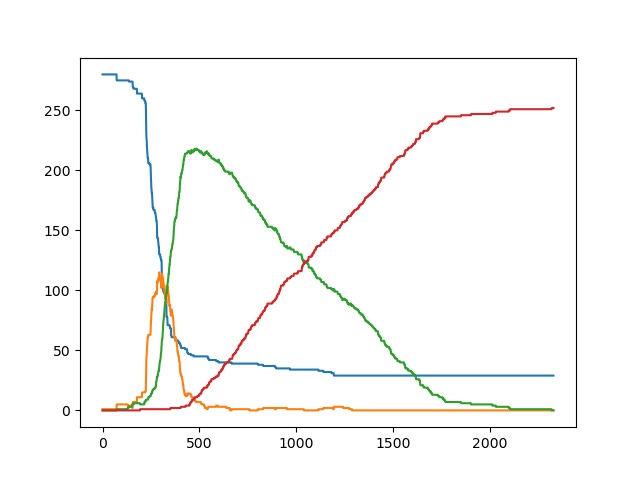
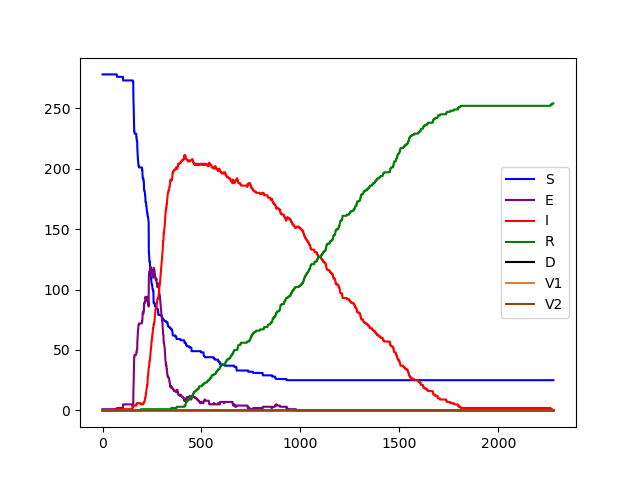
Added vaccination

diff --git a/household_degdist_vaccination.py b/household_degdist_vaccination.py
@@ -36,7 +36,7 @@ def split_list(l: list[str]) -> tuple[list[str], list[str]]:
     return deepcopy(l[:l_len // 2]), deepcopy(l[l_len // 2:])
 
 
-def transmit_hh(pop: Population, beta: dict, E_dist, I_dist) -> None:
+def transmit_hh(pop: Population, beta: dict, E_dist, I_dist, ve) -> None:
     """
     Transmits within the household
 
@@ -81,7 +81,7 @@ def transmit_hh(pop: Population, beta: dict, E_dist, I_dist) -> None:
     return deepcopy(pop.G)
 
 
-def transmit_daytime(pop: Population, beta: dict, p_mask: float, E_dist, I_dist) -> None:
+def transmit_daytime(pop: Population, beta: dict, p_mask: float, E_dist, I_dist, ve) -> None:
     """
     Transmits during each hour of the workday
     Assume a 10 hour day. Probability of a node having a contact each hour is num_cc_nonhh/10.
@@ -114,20 +114,22 @@ def transmit_daytime(pop: Population, beta: dict, p_mask: float, E_dist, I_dist)
 
     # Transmit
     for u, v, d in pop.edges.data():
-        if not d['household'] and (u in pop.node_ids_I or v in pop.node_ids_I) and bernoulli(beta[d['protection']]):
-            t = (u, v,E_dist.rvs(), I_dist.rvs())
-            pop.transmit([t])
+        if not d['household'] and \
+                (u in pop.node_ids_I or v in pop.node_ids_I):
 
-    # pop.transmit(
-    #     [
-    #         # Tuple format: (node 1, node2, num hrs Exposed, num hrs infectious)
-    #         (u, v, E_dist.rvs(), I_dist.rvs())
-    #         # Get edges
-    #         for u, v, d in pop.edges.data()
-    #         # If they aren't in the same household and coin flip wearing protection
-    #         if not d['household'] and bernoulli(beta[d['protection']])
-    #     ]
-    # )
+            # If either node is vaccinated:
+            if u in pop.node_ids_V1 or v in pop.node_ids_V1:
+                if bernoulli(beta[d['protection']]) and bernoulli(1-ve["V1"]):
+                    t = (u, v, E_dist.rvs(), I_dist.rvs())
+                    pop.transmit([t])
+            elif u in pop.node_ids_V2 or v in pop.node_ids_V2:
+                if bernoulli(beta[d['protection']]) and bernoulli(1-ve["V2"]):
+                    t = (u, v, E_dist.rvs(), I_dist.rvs())
+                    pop.transmit([t])
+            elif bernoulli(beta[d['protection']]):
+                t = (u, v, E_dist.rvs(), I_dist.rvs())
+                pop.transmit([t])
+
 
     pop.add_history()
     pop.decrement()
@@ -135,7 +137,7 @@ def transmit_daytime(pop: Population, beta: dict, p_mask: float, E_dist, I_dist)
 
     return deepcopy(pop.G)
 
-def distribute_vax(pop: Population, n_daily: int):
+def distribute_vax(pop: Population, n_daily: int, time_until_v2: int = 25 * 24):
     """
     Distributes n_daily doses of the vaccine to the population, by priority
     group
@@ -151,6 +153,83 @@ def distribute_vax(pop: Population, n_daily: int):
 
     """
 
+
+    n_remaining = n_daily
+    n_remaining_2 = n_daily
+
+    def invert_dict(d):
+        ret = dict()
+        for key, value in d.items():
+            if value in ret:
+                ret[value].append(key)
+            else:
+                ret[value] = [key]
+
+        return ret
+
+    # Invert the dict of priorities
+    v1_prior = pop.vaccine_priority
+    v1_prior = invert_dict(v1_prior)
+    del v1_prior[-1]
+
+
+
+    # V1
+    while n_remaining > 0:
+        # The node that we're vaccinating
+        try :
+            max_prior = max(v1_prior.keys())
+            if (len(v1_prior[max_prior]) == 0):
+                del v1_prior[max_prior]
+            max_prior = max(v1_prior.keys())
+        except ValueError:
+            break
+
+        random.shuffle(v1_prior[max_prior])
+        nid = v1_prior[max_prior].pop()
+
+        print("Node", nid, "got the first dose of vaccine")
+
+        # Set the node's status to V1
+        pop.V1(nid, time_until_v2)
+
+
+        n_remaining -= 1
+
+
+    # V2
+    v2_prior = pop.time_until_v2
+    v2_prior = invert_dict(v2_prior)
+    try:
+        v2_prior = v2_prior[0]
+        print(v2_prior)
+    except KeyError:
+        return deepcopy(pop.G)
+
+    print(n_remaining_2)
+    print(len(v2_prior))
+    while n_remaining_2 > 0 and len(v2_prior) > 0:
+        # The node that we're vaccinating
+
+        random.shuffle(v2_prior)
+        nid = v2_prior.pop()
+
+        print(nid)
+
+        print("Node", nid, "got the second dose of vaccine")
+
+        # Set the node's status to V1
+        pop.V2(nid)
+
+        n_remaining_2 -= 1
+
+    return deepcopy(pop.G)
+
+
+
+
+
+
 def household_mixing_w_degree_dist(
         n_hh: int = 1000,
         initial_sick: int = 1,
@@ -158,12 +237,15 @@ def household_mixing_w_degree_dist(
         beta: dict[bool, float] = {True: 0.01, False: 0.1},
         p_mask: float = 0.8,
         E_dist=randint(2 * 24, 4 * 24),
-        I_dist=randint(4 * 24, 57 * 24)
+        I_dist=randint(4 * 24, 57 * 24),
+        ve: dict[str, float] = {'V1': 0.75, 'V2': 0.95, False: 0}
 ) -> tuple:
     """
 
     Parameters
     ----------
+    ve: dict[str, float]
+        Vaccine efficacy
     n_hh: int
         Number of households
     initial_sick: int
@@ -183,6 +265,7 @@ def household_mixing_w_degree_dist(
     -------
 
     """
+
     pop = sim_pop(n_hh, lucid_data['wave4'])
 
     for _ in range(initial_sick):
@@ -195,22 +278,29 @@ def household_mixing_w_degree_dist(
 
     day = 0
 
+    # Randomly assing priority levels -1-2
+    for nid in pop.node_ids:
+        pop.set_vax_priority(nid, random.choice([-1, 0, 1, 2]))
+
     while (len(pop.node_ids_I) + len(pop.node_ids_E) > 0) and (n_days > 0):
 
         # Morning
         for hour in range(0, 8):
             print("Day", day, "Hour", hour)
-            anim_list.append(transmit_hh(pop, beta, E_dist, I_dist))
+            anim_list.append(transmit_hh(pop, beta, E_dist, I_dist, ve))
+
+        # Distribute vaccines
+        distribute_vax(pop, 10)
 
         # Workday
         for hour in range(8, 18):
             print("Day", day, "Hour", hour)
-            anim_list.append(transmit_daytime(pop, beta, p_mask, E_dist, I_dist))
+            anim_list.append(transmit_daytime(pop, beta, p_mask, E_dist, I_dist, ve))
 
         # Evening
         for hour in range(18, 24):
             print("Day", day, "Hour", hour)
-            anim_list.append(transmit_hh(pop, beta, E_dist, I_dist))
+            anim_list.append(transmit_hh(pop, beta, E_dist, I_dist, ve))
 
         day += 1
         n_days -= 1
@@ -221,17 +311,32 @@ def household_mixing_w_degree_dist(
 if __name__ == "__main__":
     pop, history, anim_list = household_mixing_w_degree_dist(100, initial_sick=1)
 
-    coldict = {'S': 'blue', 'E': 'purple', 'I': 'red', 'R': 'green'}
+
+    # Print stats
+    print("Susceptible: ", len(pop.node_ids_S), "of", len(pop.node_ids))
+    print("Infected: ", len(pop.node_ids_I), "of", len(pop.node_ids))
+    print("Recovered: ", len(pop.node_ids_R), "of", len(pop.node_ids))
+    print("Deaths: ", len(pop.node_ids_D), "of", len(pop.node_ids))
+    print("Vaccinated, dose 1: ", len(pop.node_ids_V1), "of", len(pop.node_ids))
+    print("Vaccinated, dose 2: ", len(pop.node_ids_V2), "of", len(pop.node_ids))
+    # print("Breakthrough cases: ", len(pop.node_ids_V2 in pop.node_ids_R), "of", len(pop.node_ids_V2))
+
+
+
+    coldict = {'S': 'blue', 'E': 'purple', 'I': 'red', 'R': 'green', 'D': 'black', 'V1': 'peru', 'V2': 'saddlebrown'}
     edgedict = {True: '-', False: '--'}
 
-    plt.plot((history == 'S').sum(axis=0))
-    plt.plot((history == 'E').sum(axis=0))
-    plt.plot((history == 'I').sum(axis=0))
-    plt.plot((history == 'R').sum(axis=0))
-
+    plt.plot((history == 'S').sum(axis=0), color=coldict['S'], label='S')
+    plt.plot((history == 'E').sum(axis=0), color=coldict['E'], label='E')
+    plt.plot((history == 'I').sum(axis=0), color=coldict['I'], label='I')
+    plt.plot((history == 'R').sum(axis=0), color=coldict['R'], label='R')
+    plt.plot((history == 'D').sum(axis=0), color=coldict['D'], label='D')
+    plt.plot((history == 'V1').sum(axis=0), color=coldict['V1'], label='V1')
+    plt.plot((history == 'V2').sum(axis=0), color=coldict['V2'], label='V2')
+    plt.legend()
     plt.savefig("testanim.png")
 
-    run_animation = True
+    run_animation = False
     fig, ax = plt.subplots(ncols=2, figsize=(12, 8))
     pos = nx.spring_layout(anim_list[0], k=2 / np.sqrt(len(anim_list[0].nodes)))
 
@@ -258,6 +363,8 @@ if __name__ == "__main__":
             ax[1].plot((history.iloc[:, :i] == 'E').sum(axis=0), color=coldict['E'])
             ax[1].plot((history.iloc[:, :i] == 'I').sum(axis=0), color=coldict['I'])
             ax[1].plot((history.iloc[:, :i] == 'R').sum(axis=0), color=coldict['R'])
+            ax[1].plot((history.iloc[:, :i] == 'V1').sum(axis=0), color=coldict['V1'])
+            ax[1].plot((history.iloc[:, :i] == 'V2').sum(axis=0), color=coldict['V2'])
             ax[1].set_xlim([0, len(history.columns)])
 
 

diff --git a/Population.py b/Population.py
@@ -44,7 +44,8 @@ class Population:
             self.G = G
 
     def add_node(self, age, ethnicity, gender, num_cc_nonhh, hhid=None,
-                 id=None, disease_status='S', remaining_days_sick=0):
+                 id=None, disease_status='S', remaining_days_sick=0,
+                 vaccine_priority=-1, vaccine_status=False):
         """
         Adds a node to the graph. Makes sure that all node attributes are included.
 
@@ -59,6 +60,7 @@ class Population:
         remaining_days_sick: int
         ethnicity: str
         num_cc_nonhh: int
+        vaccine_priority
 
         Returns
         -------
@@ -72,7 +74,7 @@ class Population:
         try:
             assert isinstance(id, str) | isinstance(id, int)
             assert isinstance(age, int) | isinstance(age, str)
-            assert disease_status in ['S', 'E', 'I', 'R']
+            assert disease_status in ['S', 'E', 'I', 'R', 'D']
             assert isinstance(remaining_days_sick, int)
             assert isinstance(ethnicity, str)
             assert isinstance(num_cc_nonhh, int) | isinstance(num_cc_nonhh, float)
@@ -88,7 +90,10 @@ class Population:
                                  'gender': gender,
                                  'ethnicity': ethnicity,
                                  'num_cc_nonhh': num_cc_nonhh,
-                                 'hhid': hhid})])
+                                 'hhid': hhid,
+                                 'vaccine_priority': vaccine_priority,
+                                 'time_until_v2' : -1,
+                                 'vaccine_status' : vaccine_status})])
         return id
 
     def add_edges(self, el, check_input=False):
@@ -229,6 +234,27 @@ class Population:
 
         return
 
+    def set_vax_priority(self, n, priority_level):
+        self.G.nodes()[n]['vaccine_priority'] = priority_level
+        return
+
+    def V1(self, n, time_until_v2):
+
+        self.G.nodes()[n]['vaccine_status'] = 'V1'
+        self.G.nodes()[n]['time_until_v2'] = time_until_v2
+        self.G.nodes()[n]['vaccine_priority'] = -1
+
+        return
+
+
+    def V2(self, n):
+        self.G.nodes[n]['vaccine_status'] = 'V2'
+        self.G.nodes[n]['time_until_v2'] = -1
+
+        return
+
+
+
     @property
     def nodes(self, nodes=None):
         return self.G.nodes(nodes)
@@ -258,8 +284,28 @@ class Population:
         return [k for (k, v) in self.G.nodes.data() if v['disease_status'] == 'R']
 
     @property
+    def node_ids_D(self):
+        return [k for (k, v) in self.G.nodes.data() if v['disease_status'] == 'D']
+
+    @property
+    def node_ids_V1(self):
+        return [k for (k, v) in self.G.nodes.data() if v['vaccine_status'] == 'V1']
+
+    @property
+    def node_ids_V2(self):
+        return [k for (k, v) in self.G.nodes.data() if v['vaccine_status'] == 'V2']
+
+    @property
     def hhids(self):
         return {h for _, h in self.G.nodes.data('hhid')}
+
+    @property
+    def vaccine_priority(self):
+        return {k:v for k, v in self.G.nodes.data('vaccine_priority')}
+
+    @property
+    def time_until_v2(self):
+        return {k:v for k, v in self.G.nodes.data('time_until_v2')}
 
     def set_sick(self, node, E_n=3*24, I_n=5*24):
         """
@@ -300,6 +346,14 @@ class Population:
                 continue
             else:
                 self.G.nodes[e]['remaining_days_exposed'] -= 1
+
+        for v1, t in self.time_until_v2.items():
+            if t == -1:
+                continue
+            if t == 0:
+                continue
+            else:
+                self.G.nodes[v1]['time_until_v2'] -= 1
 
         return
 
